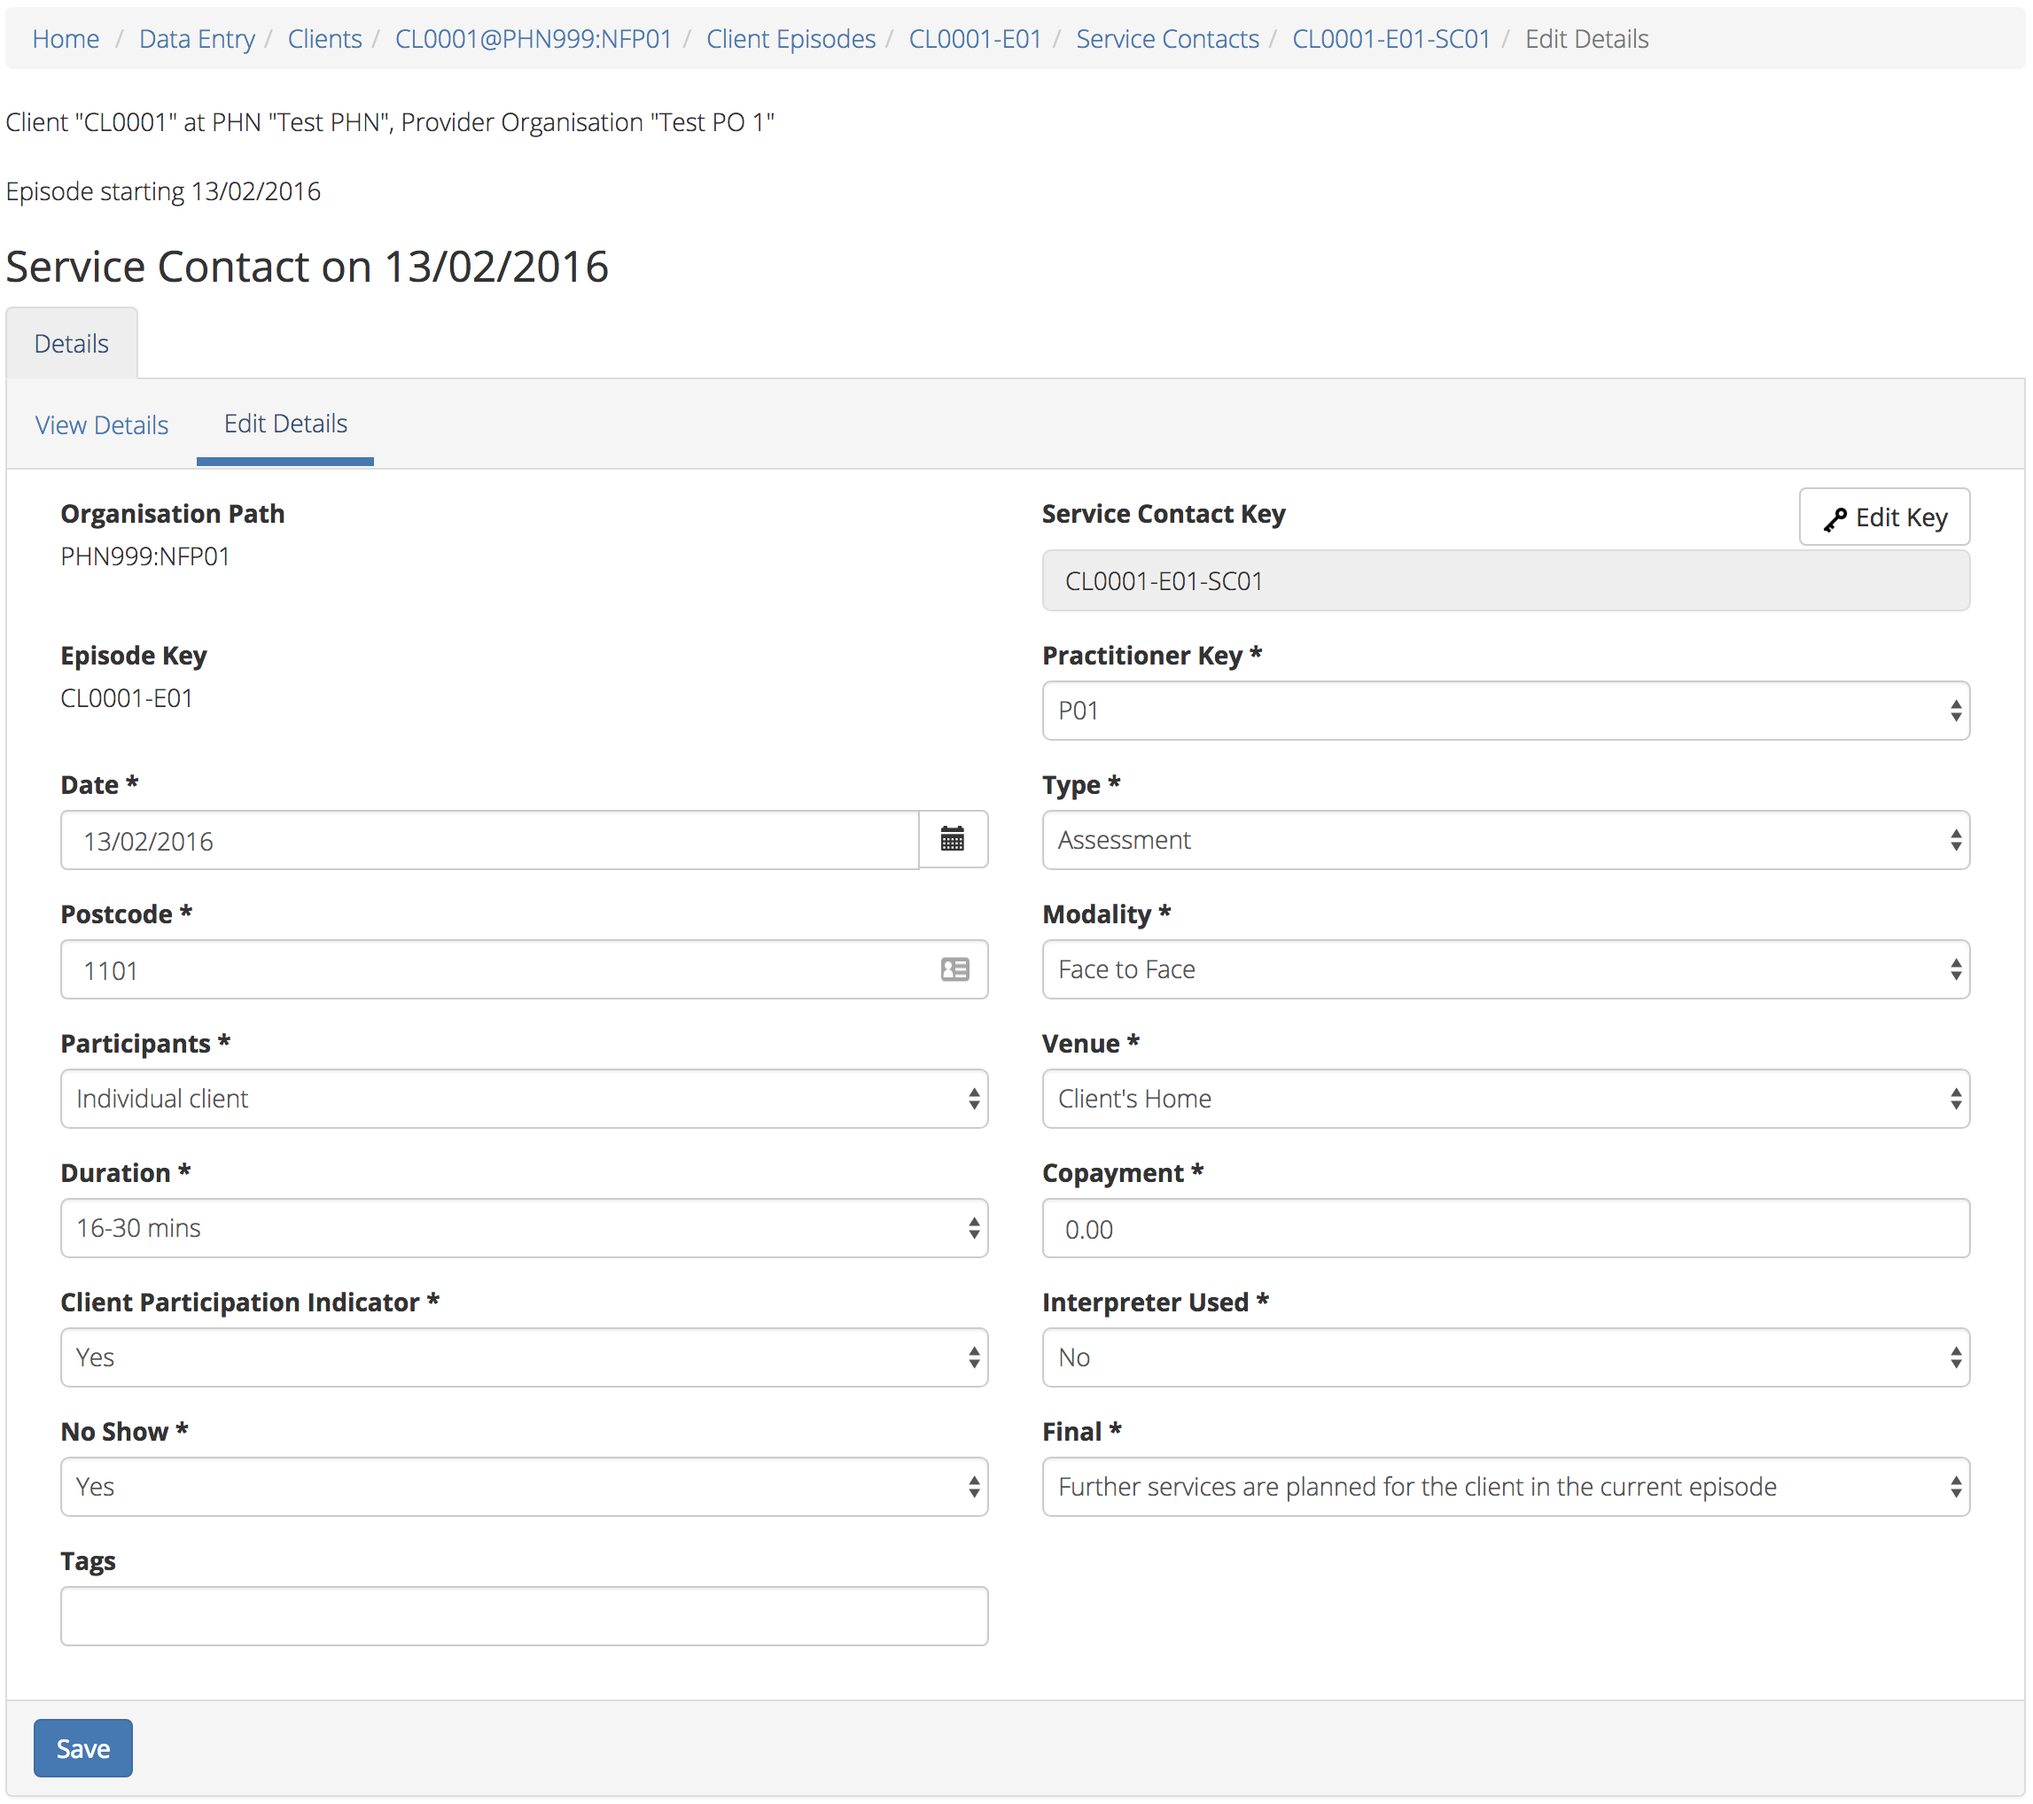
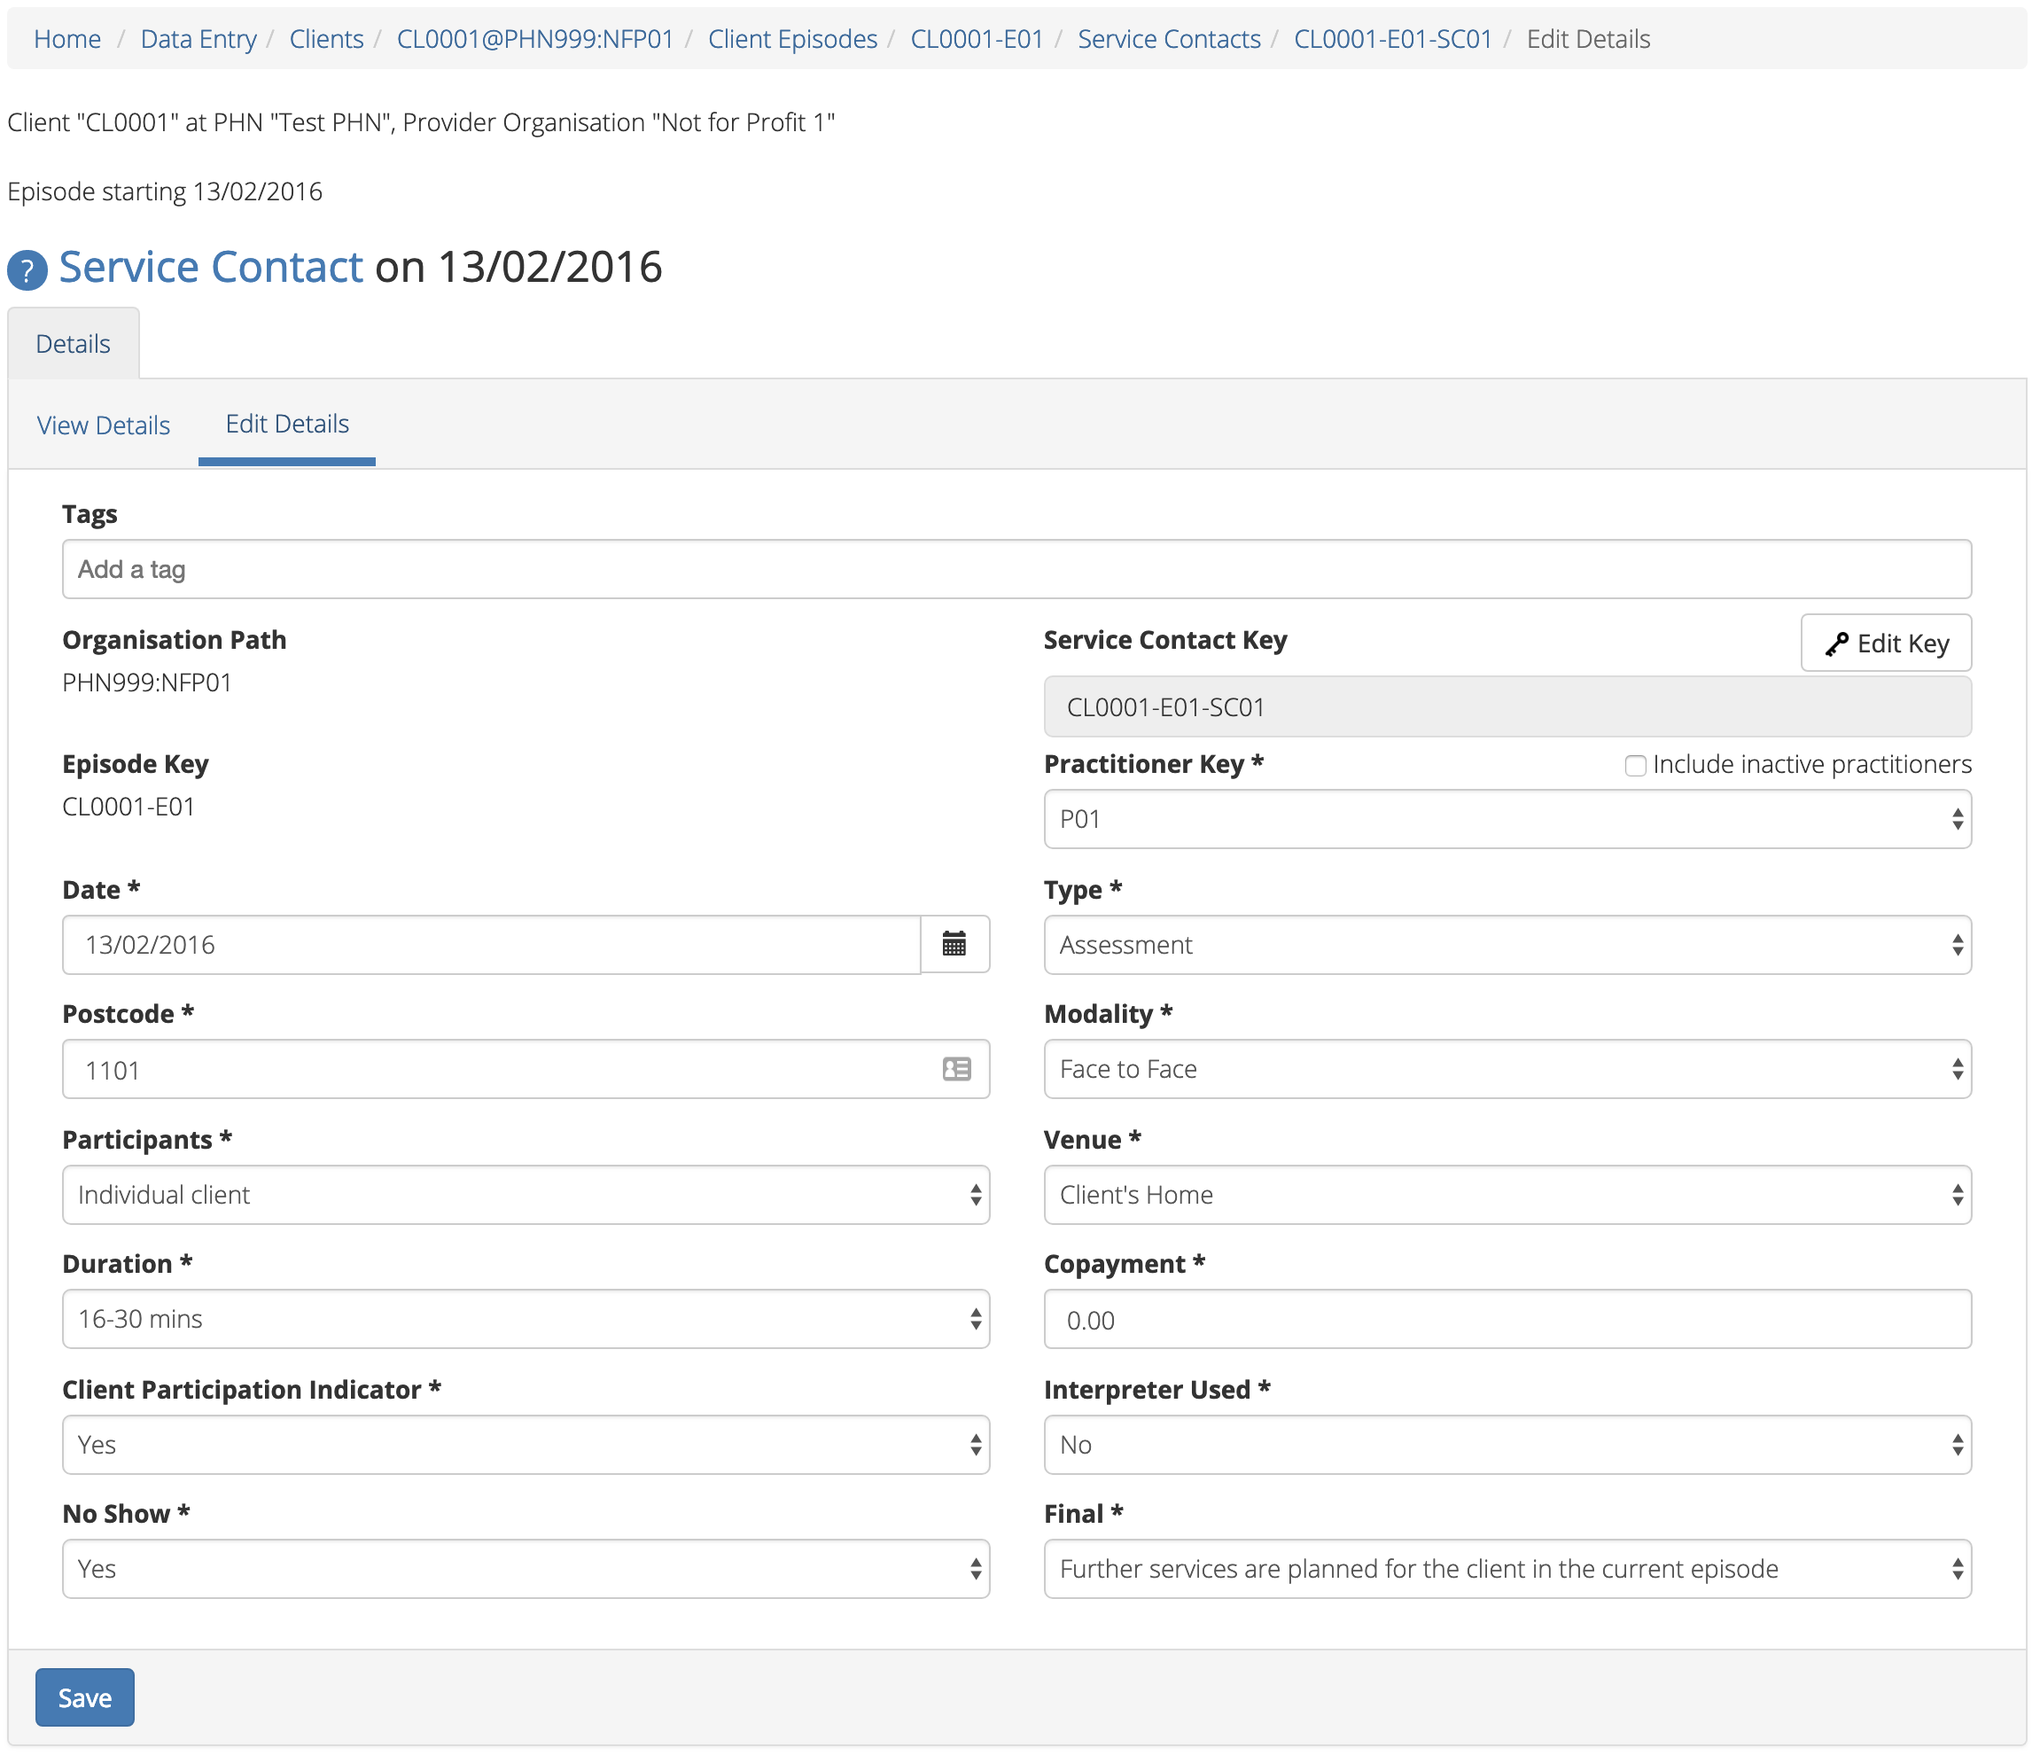
Inactive Organisations - User Guide and Faqs update
* Edited :ref:`inactivate-provider-organisation`
* Added :ref:`view-inactive-provider-organisation`
* Updated screenshots for :ref:`organisations`
* Updated screenshots for :ref:`service-contact-data`
(updated userguide-changelog)
* Added the question :ref:`run-report-FAQs`
* Added the question :ref:`report-rules-FAQs`
* Added the question :ref:`report-types-FAQs`
(updated faq-changelog:)

diff --git a/doc/user-documentation/organisations.rst b/doc/user-documentation/organisations.rst
@@ -4,11 +4,11 @@ Organisations
 =============
 
 You will be able to see the Organisations tab if you have been assigned
-the 'Organisation Management', or the 'User Management' role, , when logged into the PMHC MDS on https://pmhc-mds.net.
+the 'Organisation Management', or the 'User Management' role, when logged into the PMHC MDS on https://pmhc-mds.net.
 
 If you believe you should have access to an organisation and it doesn't appear
-in your list please contact someone in that provider organisation or the
-provider organisation's PHN who has the 'User Management' role.
+in your list please contact someone who has the 'User Management' role in that
+provider organisation or the provider organisation's commissioning PHN.
 
 If you are unsure who has the 'User Management' role please email the PMHC
 helpdesk at support@pmhc-mds.com
@@ -35,8 +35,8 @@ The PHN organisations details will be displayed, along with a provider organisat
 If you have the 'User Management' role will also include a 'Users' tab listing
 the users that belong to this PHN.
 
-.. figure:: screen-shots/organisation-phn-view.png
-   :alt: PMHC MDS View Organisation
+   .. figure:: screen-shots/organisation-phn-view.png
+      :alt: PMHC MDS View Organisation
 
 .. _search-provider-organisation:
 
@@ -63,8 +63,8 @@ To filter the listed provider organisations:
 1. Click the grey 'Filters' button.
 2. Start typing in an edit box now displayed under the column headers.
 
-.. figure:: screen-shots/organisations-provider-filter.png
-   :alt: PMHC MDS Organisations Filter
+   .. figure:: screen-shots/organisations-provider-filter.png
+      :alt: PMHC MDS Organisations Filter
 
 3. To remove the filter, click the grey cross within the edit box beside any
    entered text.
@@ -82,8 +82,8 @@ following these steps:
 3. Click on the 'Provider Organisations' tab.
 4. Click on the provider organisation's name from the 'View Provider Organisations' table
 
-.. figure:: screen-shots/organisation-provider-view.png
-   :alt: PMHC MDS View Provider Organisation
+   .. figure:: screen-shots/organisation-provider-view.png
+      :alt: PMHC MDS View Provider Organisation
 
 .. _add-provider-organisation:
 
@@ -107,6 +107,9 @@ through the organisation tab by following these steps:
 
 You will receive confirmation that the organisation has been saved, and it will
 now be displaying in the PHN's Provider Organisations list.
+
+        .. figure:: screen-shots/client-data-saved.png
+           :alt: Provider Organisation Saved Successfully
 
 .. _edit-provider-organisation:
 
@@ -139,18 +142,48 @@ details through the organisation tab, by following these steps:
 4. Update the organisations details. Mandatory fields are marked with an *
 5. Click the blue 'Save' button.
 
+You will receive confirmation that the updated organisation details have been saved..
+
+        .. figure:: screen-shots/client-data-saved.png
+           :alt: Updated Provider Organisation Saved Successfully
+
 .. _inactivate-provider-organisation:
 
 Inactivate a Provider Organisation
 ^^^^^^^^^^^^^^^^^^^^^^^^^^^^^^^^^^
 
-You cannot make a provider organisation inactive by editing the 'Status'
-of the provider organisation from active to inactive.
+You can make a provider organisation inactive by entering an 'End Date' in the
+provider organisation details. The 'End Date' can be in the future.
 
-If you require the status of an organisation to be inactive please email support@pmhc-mds.com.
+Once an end date is saved, there will be a 90 day grace period in which the users
+of this inactive provider organisation can finalise adding their data. Users of
+an inactive provider organisation will not be able to add data after the grace
+period has passed.
 
-*Please note: Inactive organisations will not be displayed in your organisations list.*
-*Please note: Inactive organisation data will not be displayed in your reports.*
+*Please note: Service Contact data and Outcome Collection Occasion data will not
+be able to be recorded after an organisation's end date.*
+
+*Please note: Only organisations that are active within a reporting period will
+be displayed in the reports organisation field.*
+
+.. _view-inactive-provider-organisation:
+
+Viewing an inactive Provider Organisation
+^^^^^^^^^^^^^^^^^^^^^^^^^^^^^^^^^^^^^^^^^
+
+You can view an inactive provider organisation's details through the Organisations tab, by
+following these steps:
+
+1. Navigate to the Organisations tab.
+2. Click on the PHN name in blue text displayed within the table list.
+3. Click on the 'Provider Organisations' tab.
+4. Select the 'Include inactive organisations' box.
+5. Click on the provider organisation's name from the 'View Provider Organisations' table
+
+Inactive organisations will be displayed with an ZZZ icon and will be greyed out.
+
+   .. figure:: screen-shots/organisation-provider-view-inactive.png
+      :alt: PMHC MDS View inactive Provider Organisations
 
 .. _delete-provider-organisation:
 

diff --git a/doc/faqs/system/checking.rst b/doc/faqs/system/checking.rst
@@ -3,11 +3,48 @@
 Checking data
 ^^^^^^^^^^^^^
 
+.. _who-checks-data-faq:
+
+Who should be checking data?
+~~~~~~~~~~~~~~~~~~~~~~~~~~~~
+
 Each individual organisation is responsible for checking their data in the
 MDS to confirm its accuracy and completion. It is advisable that this review
 is undertaken regularly to ensure data integrity and avoid widespread errors.
 
-Alternatively, for greater precision and to access your data in full, you can
-download your data.
+.. _run-report-faq:
+
+How can I run a report?
+~~~~~~~~~~~~~~~~~~~~~~~
+
+If you can see the reports tab you will be able to run a report.
+
+Refer to :ref:`reports`.
+
+.. _report-rules-faq:
+
+How can I view the rules of a report?
+~~~~~~~~~~~~~~~~~~~~~~~~~~~~~~~~~~~~~
+
+Each report has its own rules. If you are not sure what data is displayed in a report,
+please click on the ‘Counting Rules Explained’ link displayed after running a report.
+
+Refer to :ref:`produce-system-report`.
+
+.. _report-types-faq:
+
+What are the types of system reports?
+~~~~~~~~~~~~~~~~~~~~~~~~~~~~~~~~~~~~~
+
+The reports are grouped into different categories, each designed to serve different purposes.
+
+Refer to :ref:`system-report-types`
+
+.. _view-data-faq:
+
+How can I view all data?
+~~~~~~~~~~~~~~~~~~~~~~~~
+
+To access your data in full, you can download your data.
 
 Refer to :ref:`data-extraction`.

diff --git a/doc/user-documentation/change-log.rst b/doc/user-documentation/change-log.rst
@@ -3,6 +3,19 @@
 User Guide Change log
 =====================
 
+7/3/2019
+--------
+
+* Edited :ref:`inactivate-provider-organisation`
+
+* Added :ref:`view-inactive-provider-organisation`
+
+* Updated screenshots for :ref:`organisations`
+
+* Updated screenshots for :ref:`service-contact-data`
+
+* Added reports C3 to :ref:`category-c`
+
 19/11/2018
 ----------
 
@@ -31,12 +44,14 @@ User Guide Change log
 ---------
 
 * Added reports A7-A9 to :ref:`category-a`
+
 * Added reports B1-B5 to :ref:`category-b`
 
 13/3/2018
 ---------
 
 * Added reports A3-A6 to :ref:`category-a`
+
 * Added :ref:`closing-episode`
 
 19/1/2018

diff --git a/doc/faqs/change-log.rst b/doc/faqs/change-log.rst
@@ -3,6 +3,23 @@
 Frequently Asked Questions Change log
 =====================================
 
+7/3/2019
+--------
+
+System - Checking Data FAQs
+~~~~~~~~~~~~~~~~~~~~~~~~~~~
+
+* Added the question :ref:`run-report-faq`
+
+* Added the question :ref:`report-rules-faq`
+
+* Added the question :ref:`report-types-faq`
+
+System - Development FAQs
+~~~~~~~~~~~~~~~~~~~~~~~~~
+
+* Updated the section :ref:`pmhc-mds-development`
+
 11/9/2018
 ---------
 
